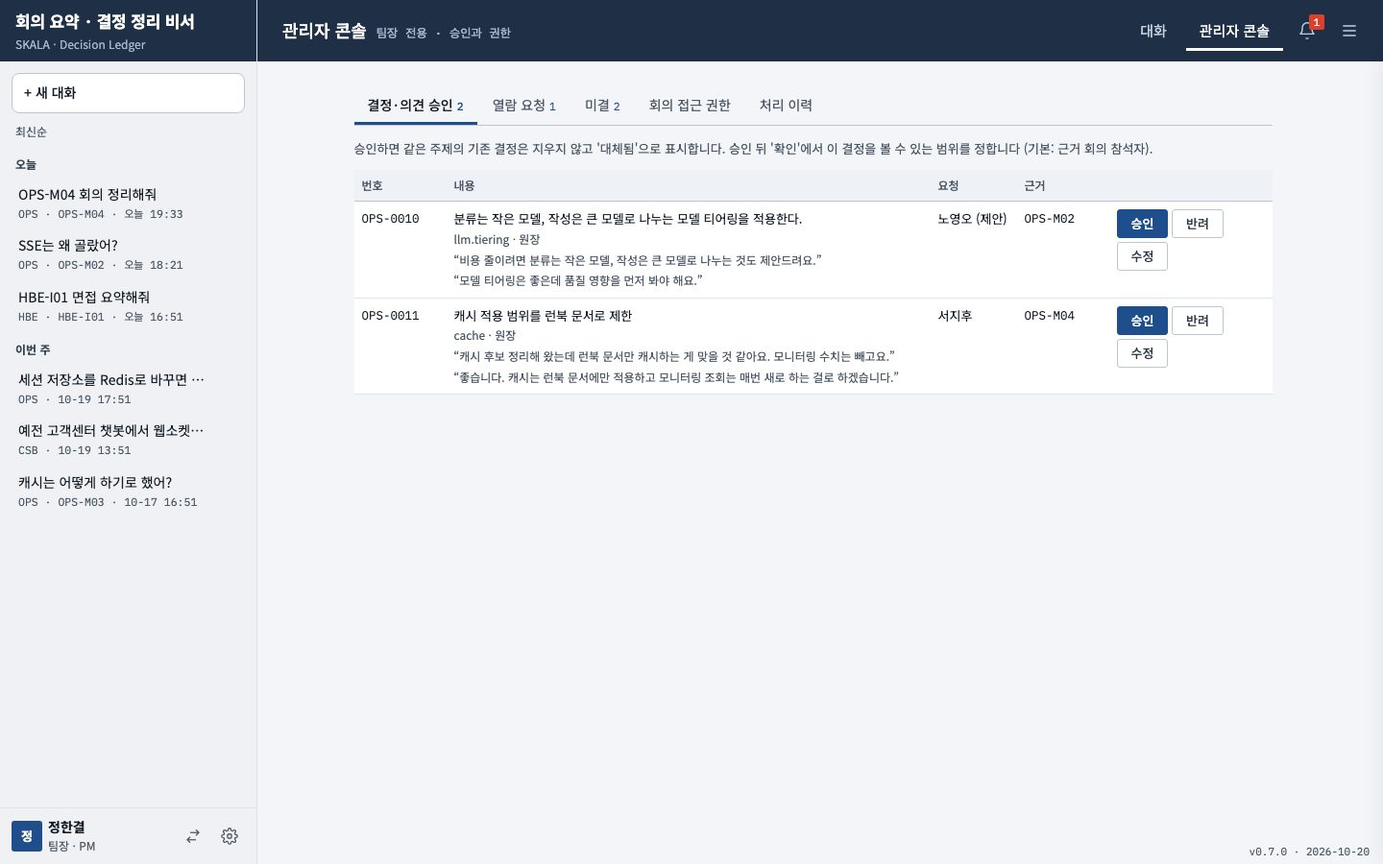
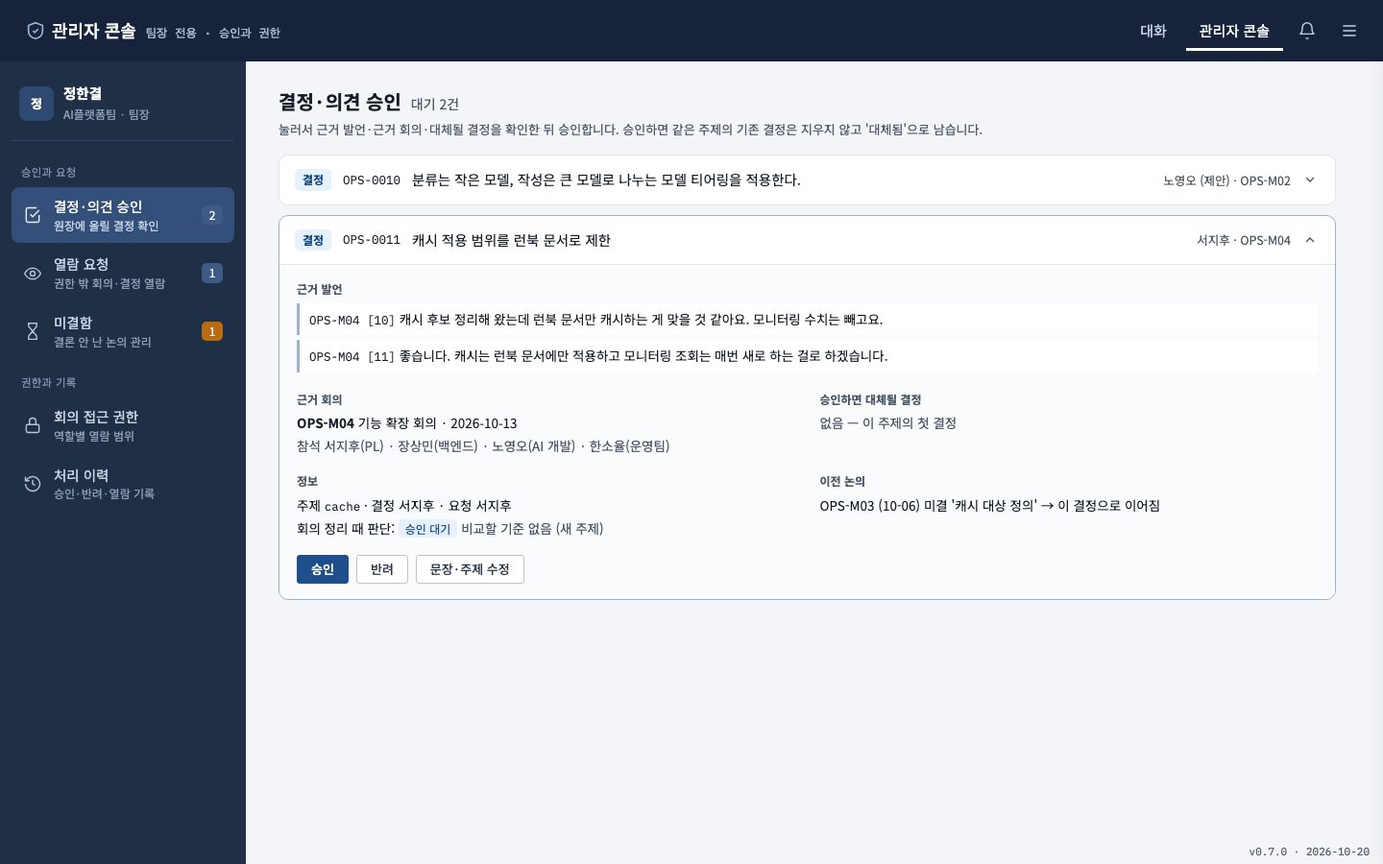
관리자 콘솔 개편: 대화 기록 대신 좌측 관리 메뉴(대기 건수), 대기 건을 누르면 근거 발언·근거 회의·대체될 결정·이전 논의·해결 방향 펼치기

diff --git a/web_chat.html b/web_chat.html
@@ -184,6 +184,46 @@ input.sel { padding-right: 10px; background-image: none; cursor: text; }
 .quote { font-size: 12px; color: var(--muted); margin-top: 3px; }
 .sup-warn { font-size: 12px; color: #a35a00; background: #fff4e5; border-radius: 4px; padding: 3px 6px; margin-top: 4px; }
 tr.stale td { background: #fffaf2; }
+/* 관리자 콘솔: 대화 기록 대신 관리 메뉴 */
+.app.adm { grid-template-columns: minmax(0, 1fr); }
+.top.admtop { background: #16233a; } .top .shield { width: 22px; height: 22px; color: #9fb6d6; flex: none; }
+.adm-page { padding: 0 !important; overflow: hidden; display: flex; }
+.adm { display: grid; grid-template-columns: 256px minmax(0, 1fr); flex: 1; min-height: 0; }
+.adm-nav { background: var(--navy); color: #c9d4e3; padding: 18px 12px; overflow-y: auto; }
+.adm-who { display: flex; gap: 10px; align-items: center; padding: 4px 8px 16px; border-bottom: 1px solid #2f4462; margin-bottom: 10px; }
+.adm-who .av { width: 36px; height: 36px; border-radius: 8px; background: #2f4a72; color: #fff; display: grid; place-items: center; font-weight: 600; }
+.adm-who b { color: #fff; font-size: 14.5px; display: block; } .adm-who small { color: #8fa1ba; font-size: 12px; }
+.adm-sec { font-size: 11.5px; color: #7f92ad; padding: 14px 10px 6px; letter-spacing: .02em; }
+.adm-nav button { display: flex; align-items: center; gap: 12px; width: 100%; padding: 11px 12px; border-radius: 8px; text-align: left; color: #c9d4e3; margin-bottom: 2px; }
+.adm-nav button svg { width: 20px; height: 20px; flex: none; opacity: .9; }
+.adm-nav button span { flex: 1; min-width: 0; font-size: 14.5px; line-height: 1.3; } .adm-nav button small { display: block; font-size: 12px; color: #8fa1ba; margin-top: 2px; }
+.adm-nav button:hover { background: #283c5a; color: #fff; } .adm-nav button.on { background: #34507a; color: #fff; } .adm-nav button.on small { color: #c4d2e6; }
+.adm-nav em { font-style: normal; font-size: 12px; min-width: 22px; text-align: center; padding: 1px 6px; border-radius: 5px; background: #3e5a85; color: #fff; }
+.adm-nav em.warn { background: #b86b10; }
+.adm-main { overflow-y: auto; padding: 26px 34px 90px; min-width: 0; background: var(--bg); }
+.adm-hd { display: flex; align-items: baseline; gap: 10px; margin-bottom: 4px; } .adm-hd h2 { font-size: 20px; font-weight: 600; margin: 0; }
+.adm-main .note { margin: 0 0 16px; }
+.empty-box { padding: 26px; text-align: center; color: var(--muted); background: #fff; border: 1px dashed var(--line2); border-radius: 10px; }
+.arow { background: #fff; border: 1px solid var(--line); border-radius: 10px; margin-bottom: 10px; }
+.arow.open { border-color: #9fb1c8; } .arow.stale { border-left: 4px solid #d08a2c; }
+.ahead { display: grid; grid-template-columns: auto auto minmax(0, 1fr) auto 18px; align-items: center; gap: 12px; width: 100%; padding: 14px 16px; text-align: left; }
+.ahead.static { grid-template-columns: auto auto minmax(0, 1fr) auto auto; cursor: default; }
+.ahead:hover { background: #f8fafc; } .ahead.static:hover { background: none; }
+.atx { min-width: 0; white-space: nowrap; overflow: hidden; text-overflow: ellipsis; font-size: 14.5px; }
+.ameta { font-size: 12.5px; color: var(--muted); white-space: nowrap; } .ameta.hot { color: #a35a00; font-weight: 600; }
+.chev { width: 16px; height: 16px; color: var(--muted); transition: transform .15s; } .arow.open .chev { transform: rotate(180deg); }
+.tb { font-size: 12px; padding: 2px 8px; border-radius: 5px; font-weight: 600; }
+.t-dec { background: #E6F1FB; color: #0C447C; } .t-op { background: #EEEDFE; color: #3C3489; } .t-req { background: #E1F5EE; color: #085041; }
+.t-open { background: #FAEEDA; color: #633806; } .t-ok { background: #EAF3DE; color: #27500A; } .t-bad { background: #FCEBEB; color: #791F1F; }
+.adet { border-top: 1px solid var(--line); padding: 16px 18px; background: #fafbfd; border-radius: 0 0 10px 10px; }
+.dgrid { display: grid; grid-template-columns: repeat(2, minmax(0, 1fr)); gap: 14px 26px; } .dgrid .span2 { grid-column: 1 / -1; }
+.dgrid h5 { font-size: 12px; color: var(--muted); font-weight: 600; margin: 0 0 5px; } .dgrid p { margin: 0 0 3px; font-size: 13.5px; }
+.q2 { background: #fff; border-left: 3px solid #9fb1c8; padding: 6px 10px; margin-bottom: 5px; font-size: 13.5px; }
+.sup2 { color: #8a4b00; } .ai2 { font-size: 11.5px; background: #EEEDFE; color: #3C3489; padding: 1px 6px; border-radius: 4px; margin-right: 6px; }
+.lb2 { font-size: 12px; padding: 1px 7px; border-radius: 4px; } .l-chk { background: #FAEEDA; color: #633806; } .l-pend { background: #E6F1FB; color: #0C447C; }
+.aact { display: flex; gap: 8px; align-items: center; margin-top: 14px; flex-wrap: wrap; }
+.done-hd { font-size: 12.5px; color: var(--muted); margin: 20px 0 8px; } .arow.done { opacity: .9; }
+.atable { width: 100%; background: #fff; border: 1px solid var(--line); border-radius: 10px; border-collapse: separate; overflow: hidden; }
 .ver { position: absolute; right: 14px; bottom: 4px; font-size: 11px; color: var(--muted); font-family: var(--mono); }
 
 /* 공통 버튼·표 */
@@ -337,8 +377,8 @@ tr.lock td { color: var(--muted); }
     </div>
   </div>
 
-  <div class="app" v-if="me">
-    <aside class="side">
+  <div class="app" :class="{ adm: page === 'admin' }" v-if="me">
+    <aside class="side" v-show="page !== 'admin'">
       <button class="brand" title="새 대화 홈으로" @click="goHome"><b>회의 요약 · 결정 정리 비서</b><small>SKALA · Decision Ledger</small></button>
       <button class="newchat" @click="newChat">+ 새 대화</button>
       <div class="sorthint"><span>{{ selPrj ? '관련순' : '최신순' }}</span><b>{{ selPrj }}</b></div>
@@ -373,7 +413,8 @@ tr.lock td { color: var(--muted); }
     </aside>
 
     <main class="main">
-      <div class="top">
+      <div class="top" :class="{ admtop: page === 'admin' }">
+        <svg v-if="page === 'admin'" class="shield" viewBox="0 0 24 24" fill="none" stroke="currentColor" stroke-width="1.8"><path d="M12 3l8 3v6c0 5-3.5 8-8 9-4.5-1-8-4-8-9V6z"/><path d="M9 12l2 2 4-4"/></svg>
         <h1>{{ titleText }}<small>{{ titleSub }}</small></h1>
         <button class="tab" :class="{ on: page === 'chat' }" @click="go('chat')">대화</button>
         <button class="tab" v-if="me.role === '팀장'" :class="{ on: page === 'admin' }" @click="go('admin')">관리자 콘솔</button>
@@ -456,94 +497,128 @@ tr.lock td { color: var(--muted); }
       </div>
 
       <!-- 관리자 콘솔 -->
-      <div class="page" v-show="page === 'admin'">
-        <div class="col wide">
-          <div class="ptabs">
-            <button :class="{ on: atab === 'dec' }" @click="atab = 'dec'">결정·의견 승인<span class="cnt">{{ admin.decisions.length }}</span></button>
-            <button :class="{ on: atab === 'req' }" @click="atab = 'req'">열람 요청<span class="cnt">{{ admin.requests.length }}</span></button>
-            <button :class="{ on: atab === 'open' }" @click="atab = 'open'; loadOpen()">미결<span class="cnt">{{ openItems.length }}</span></button>
-            <button :class="{ on: atab === 'acl' }" @click="atab = 'acl'; loadAcl()">회의 접근 권한</button>
-            <button :class="{ on: atab === 'his' }" @click="atab = 'his'">처리 이력</button>
-          </div>
-          <div v-if="atab === 'dec'">
-            <p class="note">승인하면 같은 주제의 기존 결정은 지우지 않고 '대체됨'으로 표시합니다. 승인 뒤 '확인'에서 이 결정을 볼 수 있는 범위를 정합니다 (기본: 근거 회의 참석자).</p>
-            <table>
-              <tr><th style="width:96px">번호</th><th>내용</th><th style="width:90px">요청</th><th style="width:96px">근거</th><th style="width:170px"></th></tr>
-              <tr v-if="!admin.decisions.length && !doneDec.length"><td colspan="5" class="muted">승인 대기 없음</td></tr>
-              <tr v-for="d in admin.decisions" :key="d.decision_id">
-                <td class="mono">{{ d.decision_id }}</td>
-                <td>{{ d.statement }}<br><span class="muted" style="font-size:12px">{{ d.topic }} · {{ d.source }}</span>
-                  <div class="quote" v-for="(q, i) in d.quotes || []" :key="i">“{{ q }}”</div>
-                  <div class="sup-warn" v-if="d.will_supersede && d.will_supersede.length">승인하면 대체: <span v-for="x in d.will_supersede" :key="x.decision_id"><b class="mono">{{ x.decision_id }}</b> {{ x.statement }} </span></div></td>
-                <td>{{ d.requested_by }}</td><td class="mono">{{ d.meetings.join(', ') || '의견' }}</td>
-                <td><button class="btn pri" @click="decide(d, true)">승인</button> <button class="btn dng" @click="decide(d, false)">반려</button>
-                  <button class="btn" style="margin-top:4px" @click="editDec(d)">수정</button></td>
-              </tr>
-              <tr v-for="d in doneDec" :key="'x' + d.decision_id">
-                <td class="mono">{{ d.decision_id }}</td><td>{{ d.statement }}
-                  <div class="perm" v-if="d.open && d.ok">
-                    <span class="muted">열람 범위 ({{ d.meetings.join(', ') || '의견' }}):</span>
-                    <label v-for="r in ['인턴', '팀원', '담당자']" :key="r"><input type="checkbox" :checked="d.roles.includes(r)" @change="toggleDecRole(d, r, $event.target.checked)">{{ r }}</label>
-                    <span class="muted">참석자·팀장은 항상</span>
-                  </div></td>
-                <td>{{ d.requested_by }}</td><td class="mono">{{ d.meetings.join(', ') }}</td>
-                <td><span :class="d.ok ? 'done' : 'st-bad'">{{ d.ok ? '승인됨' : '반려됨' }}</span><span class="muted" v-if="d.sup" style="font-size:12px"> · 대체 {{ d.sup }}</span>
-                  <button class="btn" v-if="d.ok" style="margin-left:6px" @click="d.open = !d.open">확인</button></td>
-              </tr>
-            </table>
-          </div>
-          <div v-if="atab === 'req'">
-            <p class="note">회의 권한 밖의 사람이 승인된 결정·회의 원문을 보려면 여기서 승인합니다.</p>
-            <table>
-              <tr><th>요청자</th><th>대상</th><th>사유</th><th style="width:430px">범위 · 기간</th></tr>
-              <tr v-if="!admin.requests.length"><td colspan="4" class="muted">열람 요청 없음</td></tr>
-              <tr v-for="r in admin.requests" :key="r.id">
-                <td>{{ r.requester_name }} <span class="muted">({{ r.requester_role }})</span></td><td class="mono">{{ r.target }}</td><td>{{ r.reason || '—' }}</td>
-                <td>
-                  <template v-if="!r.done">
+      <div class="page adm-page" v-show="page === 'admin'">
+        <div class="adm">
+          <nav class="adm-nav">
+            <div class="adm-who"><span class="av">{{ me.name[0] }}</span><div><b>{{ me.name }}</b><small>{{ me.team }} · {{ me.role }}</small></div></div>
+            <div class="adm-sec">승인과 요청</div>
+            <button :class="{ on: atab === 'dec' }" @click="atab = 'dec'; sel = '';"><svg viewBox="0 0 24 24" fill="none" stroke="currentColor" stroke-width="1.7"><path d="M9 11l3 3 8-8"/><path d="M20 12v7a2 2 0 0 1-2 2H6a2 2 0 0 1-2-2V5a2 2 0 0 1 2-2h11"/></svg><span>결정·의견 승인<small>원장에 올릴 결정 확인</small></span><em v-if="admin.decisions.length">{{ admin.decisions.length }}</em></button>
+            <button :class="{ on: atab === 'req' }" @click="atab = 'req'; sel = '';"><svg viewBox="0 0 24 24" fill="none" stroke="currentColor" stroke-width="1.7"><path d="M2 12s3.5-7 10-7 10 7 10 7-3.5 7-10 7S2 12 2 12z"/><circle cx="12" cy="12" r="3"/></svg><span>열람 요청<small>권한 밖 회의·결정 열람</small></span><em v-if="admin.requests.length">{{ admin.requests.length }}</em></button>
+            <button :class="{ on: atab === 'open' }" @click="atab = 'open'; sel = ''; loadOpen()"><svg viewBox="0 0 24 24" fill="none" stroke="currentColor" stroke-width="1.7"><path d="M6 2h12M6 22h12M7 2v4l5 6-5 6v4M17 2v4l-5 6 5 6v4"/></svg><span>미결함<small>결론 안 난 논의 관리</small></span><em v-if="openItems.length" :class="{ warn: openItems.some(o => o.stale) }">{{ openItems.length }}</em></button>
+            <div class="adm-sec">권한과 기록</div>
+            <button :class="{ on: atab === 'acl' }" @click="atab = 'acl'; sel = ''; loadAcl()"><svg viewBox="0 0 24 24" fill="none" stroke="currentColor" stroke-width="1.7"><rect x="4" y="11" width="16" height="10" rx="2"/><path d="M8 11V7a4 4 0 0 1 8 0v4"/></svg><span>회의 접근 권한<small>역할별 열람 범위</small></span></button>
+            <button :class="{ on: atab === 'his' }" @click="atab = 'his'; sel = '';"><svg viewBox="0 0 24 24" fill="none" stroke="currentColor" stroke-width="1.7"><path d="M3 12a9 9 0 1 0 3-6.7L3 8"/><path d="M3 3v5h5M12 7v5l3 2"/></svg><span>처리 이력<small>승인·반려·열람 기록</small></span></button>
+          </nav>
+          <section class="adm-main">
+            <div v-if="atab === 'dec'">
+              <div class="adm-hd"><h2>결정·의견 승인</h2><span class="muted">대기 {{ admin.decisions.length }}건</span></div>
+              <p class="note">눌러서 근거 발언·근거 회의·대체될 결정을 확인한 뒤 승인합니다. 승인하면 같은 주제의 기존 결정은 지우지 않고 '대체됨'으로 남습니다.</p>
+              <div class="empty-box" v-if="!admin.decisions.length && !doneDec.length">승인 대기 없음</div>
+              <div class="arow" v-for="d in admin.decisions" :key="d.decision_id" :class="{ open: sel === d.decision_id }">
+                <button class="ahead" @click="sel = sel === d.decision_id ? '' : d.decision_id">
+                  <span class="tb" :class="d.meetings.length ? 't-dec' : 't-op'">{{ d.meetings.length ? '결정' : '의견' }}</span>
+                  <span class="mono">{{ d.decision_id }}</span><span class="atx">{{ d.statement }}</span>
+                  <span class="ameta">{{ d.requested_by }} · {{ d.meetings.join(', ') || '의견 검토' }}</span><svg class="chev" viewBox="0 0 24 24" fill="none" stroke="currentColor" stroke-width="2"><path d="M6 9l6 6 6-6"/></svg>
+                </button>
+                <div class="adet" v-if="sel === d.decision_id">
+                  <div class="dgrid">
+                    <div class="span2"><h5>근거 발언</h5>
+                      <div class="q2" v-for="(e, i) in d.evidence" :key="i"><span class="mono">{{ e.meeting_id }} [{{ e.seq ?? '—' }}]</span> {{ e.quote }}</div>
+                      <div class="muted" v-if="!d.evidence.length">근거 발언 없음 (의견에서 올린 결정)</div></div>
+                    <div><h5>근거 회의</h5>
+                      <template v-if="d.meeting && d.meeting.meeting_id"><p><b>{{ d.meeting.meeting_id }}</b> {{ d.meeting.title }} · {{ d.meeting.date }}</p><p class="muted">참석 {{ d.meeting.attendees.join(' · ') }}</p></template>
+                      <p class="muted" v-else>—</p></div>
+                    <div><h5>승인하면 대체될 결정</h5>
+                      <p v-for="x in d.will_supersede" :key="x.decision_id" class="sup2"><b class="mono">{{ x.decision_id }}</b> {{ x.statement }}</p>
+                      <p class="muted" v-if="!d.will_supersede.length">없음 — 이 주제의 첫 결정</p></div>
+                    <div><h5>정보</h5><p>주제 <span class="mono">{{ d.topic }}</span> · 결정 {{ d.decided_by || '—' }} · 요청 {{ d.requested_by }}</p>
+                      <p v-if="d.label">회의 정리 때 판단: <span class="lb2" :class="d.label === '확인 필요' ? 'l-chk' : 'l-pend'">{{ d.label }}</span> <span class="muted">{{ d.label_reason }}</span></p></div>
+                    <div v-if="d.prior.length"><h5>이전 논의</h5><p v-for="x in d.prior" :key="x.meeting_id + x.statement">{{ x.meeting_id }} ({{ (x.date || '').slice(5) }}) 미결 '{{ x.statement }}' → 이 결정으로 이어짐</p></div>
+                    <div class="span2" v-if="d.suggestions.length"><h5>해결 방향</h5><p v-for="(s, i) in d.suggestions" :key="i">· <span v-if="s.ai" class="ai2">AI 제안</span>{{ s.text }}</p></div>
+                  </div>
+                  <div class="aact"><button class="btn pri" @click="decide(d, true)">승인</button><button class="btn dng" @click="decide(d, false)">반려</button><button class="btn" @click="editDec(d)">문장·주제 수정</button></div>
+                </div>
+              </div>
+              <div class="done-hd" v-if="doneDec.length">방금 처리</div>
+              <div class="arow done" v-for="d in doneDec" :key="'x' + d.decision_id">
+                <div class="ahead static"><span class="tb" :class="d.ok ? 't-ok' : 't-bad'">{{ d.ok ? '승인됨' : '반려됨' }}</span><span class="mono">{{ d.decision_id }}</span><span class="atx">{{ d.statement }}</span>
+                  <span class="ameta">{{ d.sup ? '대체 ' + d.sup : '' }}</span><button class="btn" v-if="d.ok" @click="d.open = !d.open">열람 범위</button></div>
+                <div class="adet" v-if="d.open && d.ok"><div class="perm"><span class="muted">열람 범위 ({{ d.meetings.join(', ') || '의견' }}):</span>
+                  <label v-for="r in ['인턴', '팀원', '담당자']" :key="r"><input type="checkbox" :checked="d.roles.includes(r)" @change="toggleDecRole(d, r, $event.target.checked)">{{ r }}</label>
+                  <span class="muted">참석자·팀장은 항상</span></div></div>
+              </div>
+            </div>
+
+            <div v-if="atab === 'req'">
+              <div class="adm-hd"><h2>열람 요청</h2><span class="muted">대기 {{ admin.requests.length }}건</span></div>
+              <p class="note">회의 권한 밖의 사람이 결정·회의 원문을 보려는 요청입니다. 눌러서 대상 회의와 사유를 보고 범위·기간을 정합니다.</p>
+              <div class="empty-box" v-if="!admin.requests.length">열람 요청 없음</div>
+              <div class="arow" v-for="r in admin.requests" :key="r.id" :class="{ open: sel === 'r' + r.id }">
+                <button class="ahead" @click="sel = sel === 'r' + r.id ? '' : 'r' + r.id">
+                  <span class="tb t-req">열람</span><span class="mono">{{ r.target }}</span>
+                  <span class="atx">{{ r.requester_name }} <span class="muted">({{ r.requester_role }})</span> · {{ r.reason || '사유 없음' }}</span>
+                  <span class="ameta">{{ when(r.created) }}</span><svg class="chev" viewBox="0 0 24 24" fill="none" stroke="currentColor" stroke-width="2"><path d="M6 9l6 6 6-6"/></svg>
+                </button>
+                <div class="adet" v-if="sel === 'r' + r.id">
+                  <div class="dgrid">
+                    <div><h5>요청자</h5><p>{{ r.requester_name }} · {{ r.requester_role }}</p><p class="muted">사유: {{ r.reason || '—' }}</p></div>
+                    <div><h5>대상</h5>
+                      <template v-if="r.meeting && r.meeting.meeting_id"><p><b>{{ r.meeting.meeting_id }}</b> {{ r.meeting.title }} · {{ r.meeting.date }}</p><p class="muted">참석 {{ r.meeting.attendees.join(' · ') }} — 요청자는 참석자가 아니라 기본 열람 불가</p></template>
+                      <p v-else class="mono">{{ r.target }}</p></div>
+                  </div>
+                  <div class="aact" v-if="!r.done">
                     <select v-model="r.scope" class="sel" title="범위"><option value="user">이 사람만</option><option value="role">같은 역할 전체</option><option value="all">전체 (권장하지 않음)</option></select>
                     <select v-model="r.duration" class="sel" title="기간"><option value="once">1회</option><option value="project">프로젝트 기간 동안</option><option value="forever">무기한 (권장하지 않음)</option><option value="until">직접 입력</option></select>
                     <input v-if="r.duration === 'until'" type="date" v-model="r.until" class="sel" :min="todayIso" title="열람 기한">
-                    <button class="btn pri" @click="decideReq(r, true)">승인</button> <button class="btn dng" @click="decideReq(r, false)">반려</button>
-                  </template>
-                  <span v-else :class="r.done === 'approved' ? 'done' : 'st-bad'">{{ r.done === 'approved' ? '승인됨 · ' + scopeKo(r.scope) + ' · ' + durKo(r.duration, r.until) : '반려됨' }}</span>
-                </td>
-              </tr>
-            </table>
-          </div>
-          <div v-if="atab === 'acl'">
-            <p class="note">기본값은 그 회의 참석자만 열람. 체크한 역할은 참석하지 않았어도 원문과 결정을 볼 수 있습니다. 팀장은 항상 열람.</p>
-            <table>
-              <tr><th>회의</th><th>제목</th><th>참석자</th><th>인턴</th><th>팀원</th><th>담당자</th></tr>
-              <tr v-for="m in acl" :key="m.meeting_id">
-                <td class="mono">{{ m.meeting_id }}</td><td>{{ m.title }}</td><td class="muted" style="font-size:12px">{{ m.attendees.join(', ') }}</td>
-                <td v-for="r in ['인턴', '팀원', '담당자']" :key="r"><input type="checkbox" :checked="m.roles.includes(r)" @change="setAcl(m, r, $event.target.checked)"></td>
-              </tr>
-            </table>
-          </div>
-          <div v-if="atab === 'open'">
-            <p class="note">회의에서 결론을 내지 않은 논의입니다. 말이 없다고 결정된 것으로 보지 않습니다. 후속 할 일 기한이 지났거나 2주 넘게 열려 있으면 '확인 필요'로 표시합니다. 회의 밖에서 정해졌거나 하지 않기로 했으면 여기서 닫습니다.</p>
-            <table>
-              <tr><th style="width:140px">회의</th><th style="width:120px">주제</th><th>미결 내용</th><th style="width:200px">후속 할 일</th><th style="width:80px">경과</th><th style="width:90px"></th></tr>
-              <tr v-if="!openItems.length"><td colspan="6" class="muted">열린 미결 없음</td></tr>
-              <tr v-for="o in openItems" :key="o.item_id" :class="{ stale: o.stale }">
-                <td class="mono">{{ o.meeting_id }}<br><span class="muted">{{ o.date }}</span></td>
-                <td class="mono">{{ o.topic || '—' }}</td>
-                <td>{{ o.statement }}<div class="quote" v-for="e in (o.evidence || []).slice(0, 1)" :key="e.seq">[{{ e.seq }}] {{ e.speaker }} “{{ e.quote }}”</div></td>
-                <td><div v-for="a in o.follow_up" :key="a.statement">{{ a.statement }} <span class="muted">{{ a.owner || '?' }} · {{ a.due || '기한 없음' }}</span></div><span v-if="!o.follow_up.length" class="muted">없음</span></td>
-                <td><span :class="o.stale ? 'st-wait' : ''">{{ o.age_days }}일{{ o.stale ? ' · 확인 필요' : '' }}</span></td>
-                <td><button class="btn" @click="closeOpen(o)">닫기</button></td>
-              </tr>
-            </table>
-          </div>
-          <div v-if="atab === 'his'">
-            <table>
-              <tr><th>요청자</th><th>대상</th><th>결과</th><th>처리</th><th>시각</th></tr>
-              <tr v-for="r in admin.history" :key="r.id"><td>{{ r.requester_name }}</td><td class="mono">{{ r.target }}</td>
-                <td :class="r.status === 'approved' ? 'st-ok' : r.status === 'rejected' ? 'st-bad' : 'st-wait'">{{ { approved: '승인', rejected: '반려', pending: '대기' }[r.status] }}{{ r.scope ? ' · ' + scopeKo(r.scope) + (r.duration ? ' · ' + durKo(r.duration, r.expires) : '') : '' }}</td>
-                <td>{{ r.decided_by ? userName(r.decided_by) : '—' }}</td><td class="mono">{{ when(r.decided || r.created) }}</td></tr>
-            </table>
-          </div>
+                    <button class="btn pri" @click="decideReq(r, true)">승인</button><button class="btn dng" @click="decideReq(r, false)">반려</button>
+                  </div>
+                  <div class="aact" v-else><span :class="r.done === 'approved' ? 'done' : 'st-bad'">{{ r.done === 'approved' ? '승인됨 · ' + scopeKo(r.scope) + ' · ' + durKo(r.duration, r.until) : '반려됨' }}</span></div>
+                </div>
+              </div>
+            </div>
+
+            <div v-if="atab === 'open'">
+              <div class="adm-hd"><h2>미결함</h2><span class="muted">열린 미결 {{ openItems.length }}건</span></div>
+              <p class="note">회의에서 결론을 내지 않은 논의입니다. 말이 없다고 결정된 것으로 보지 않습니다. 후속 할 일 기한이 지났거나 2주 넘게 열려 있으면 확인 필요로 표시합니다. 회의 밖에서 정해졌거나 하지 않기로 했으면 닫습니다.</p>
+              <div class="empty-box" v-if="!openItems.length">열린 미결 없음</div>
+              <div class="arow" v-for="o in openItems" :key="o.item_id" :class="{ open: sel === o.item_id, stale: o.stale }">
+                <button class="ahead" @click="sel = sel === o.item_id ? '' : o.item_id">
+                  <span class="tb t-open">미결</span><span class="mono">{{ o.meeting_id }}</span><span class="atx">{{ o.statement }}</span>
+                  <span class="ameta" :class="{ hot: o.stale }">{{ o.age_days }}일째{{ o.stale ? ' · 확인 필요' : '' }}</span><svg class="chev" viewBox="0 0 24 24" fill="none" stroke="currentColor" stroke-width="2"><path d="M6 9l6 6 6-6"/></svg>
+                </button>
+                <div class="adet" v-if="sel === o.item_id">
+                  <div class="dgrid">
+                    <div class="span2"><h5>근거 발언</h5><div class="q2" v-for="e in o.evidence || []" :key="e.seq"><span class="mono">[{{ e.seq }}]</span> {{ e.speaker }} “{{ e.quote }}”</div></div>
+                    <div><h5>회의·주제</h5><p>{{ o.meeting_id }} · {{ o.date }}</p><p class="muted">주제 <span class="mono">{{ o.topic || '—' }}</span></p></div>
+                    <div><h5>후속 할 일</h5><p v-for="a in o.follow_up" :key="a.statement">{{ a.statement }} <span class="muted">{{ a.owner || '?' }} · {{ a.due || '기한 없음' }}</span></p><p class="muted" v-if="!o.follow_up.length">없음</p></div>
+                  </div>
+                  <div class="aact"><button class="btn" @click="closeOpen(o)">결정 없이 닫기</button></div>
+                </div>
+              </div>
+            </div>
+
+            <div v-if="atab === 'acl'">
+              <div class="adm-hd"><h2>회의 접근 권한</h2></div>
+              <p class="note">기본값은 그 회의 참석자만 열람. 체크한 역할은 참석하지 않았어도 원문과 결정을 볼 수 있습니다. 팀장은 항상 열람.</p>
+              <table class="atable">
+                <tr><th>회의</th><th>제목</th><th>참석자</th><th>인턴</th><th>팀원</th><th>담당자</th></tr>
+                <tr v-for="m in acl" :key="m.meeting_id">
+                  <td class="mono">{{ m.meeting_id }}</td><td>{{ m.title }}</td><td class="muted" style="font-size:12px">{{ m.attendees.join(', ') }}</td>
+                  <td v-for="r in ['인턴', '팀원', '담당자']" :key="r"><input type="checkbox" :checked="m.roles.includes(r)" @change="setAcl(m, r, $event.target.checked)"></td>
+                </tr>
+              </table>
+            </div>
+
+            <div v-if="atab === 'his'">
+              <div class="adm-hd"><h2>처리 이력</h2></div>
+              <table class="atable">
+                <tr><th>요청자</th><th>대상</th><th>결과</th><th>처리</th><th>시각</th></tr>
+                <tr v-for="r in admin.history" :key="r.id"><td>{{ r.requester_name }}</td><td class="mono">{{ r.target }}</td>
+                  <td :class="r.status === 'approved' ? 'st-ok' : r.status === 'rejected' ? 'st-bad' : 'st-wait'">{{ { approved: '승인', rejected: '반려', pending: '대기' }[r.status] }}{{ r.scope ? ' · ' + scopeKo(r.scope) + (r.duration ? ' · ' + durKo(r.duration, r.expires) : '') : '' }}</td>
+                  <td>{{ r.decided_by ? userName(r.decided_by) : '—' }}</td><td class="mono">{{ when(r.decided || r.created) }}</td></tr>
+              </table>
+            </div>
+          </section>
         </div>
       </div>
 
@@ -802,7 +877,7 @@ createApp({
     const drawer = ref(false), selPrj = ref(null), projects = ref([]), meetings = ref([]), ledger = ref([]), reqSent = reactive({});
     const events = ref([]), selEvent = ref(null);     // 채팅에서 확인 후 추가한 일정 (GET /events)
     const calY = ref(2026), calM = ref(10);
-    const admin = reactive({ decisions: [], requests: [], history: [] }), doneDec = ref([]), atab = ref('dec'), acl = ref([]);
+    const admin = reactive({ decisions: [], requests: [], history: [] }), doneDec = ref([]), atab = ref('dec'), acl = ref([]), sel = ref('');
     const dlg = reactive({ open: false, title: '', message: '', input: null, placeholder: '', ok: '확인', cancel: '취소', danger: false });
     const dlgInput = ref(null);
     let dlgResolve = null;
@@ -1162,6 +1237,7 @@ createApp({
       if (me.value && qs.get('thread')) { const t = threads.value.find(x => x.thread_id === qs.get('thread')); if (t) await openThread(t); }
       if (me.value && qs.get('page')) go(qs.get('page'));
       if (me.value && qs.get('tab')) { atab.value = qs.get('tab'); if (qs.get('tab') === 'acl') loadAcl(); }
+      if (me.value && qs.get('sel')) sel.value = qs.get('sel');   // 캡처용: 관리자 콘솔에서 펼칠 대기 건
       if (me.value && qs.get('prj')) { drawer.value = true; await loadMeetings(); await loadProjects(); await pickPrj(qs.get('prj')); }
       if (me.value && qs.get('mtg')) { drawer.value = true; await loadMeetings(); await loadProjects(); const m = meetings.value.find(x => x.meeting_id === qs.get('mtg')); if (m) await pickMeeting(m); }
       if (me.value && qs.get('mini')) openMini();
@@ -1171,7 +1247,7 @@ createApp({
       setInterval(loadNotes, 8000);
     })();
 
-    return { openItems, loadOpen, closeOpen, editDec, prjOpts, mtgOpts, modelOpts, miniPos, miniEl, inputEl, autoGrow, miniOpen, miniY, miniM, miniCells, openMini, miniMove, pickMiniDate, presets, modelKey, scopePrj, scopeMtg, scopeDate, scopeMeetings, meetingDates, onScopeMtg, onScopePrj, onScopeDate, dlg, dlgInput, dlgClose, switchOpen, users, me, version, build, threads, threadId, threadBox, chatBox, threadRows, log, input, sending, page, notes, unread, popOpen,
+    return { sel, openItems, loadOpen, closeOpen, editDec, prjOpts, mtgOpts, modelOpts, miniPos, miniEl, inputEl, autoGrow, miniOpen, miniY, miniM, miniCells, openMini, miniMove, pickMiniDate, presets, modelKey, scopePrj, scopeMtg, scopeDate, scopeMeetings, meetingDates, onScopeMtg, onScopePrj, onScopeDate, dlg, dlgInput, dlgClose, switchOpen, users, me, version, build, threads, threadId, threadBox, chatBox, threadRows, log, input, sending, page, notes, unread, popOpen,
       drawer, selPrj, projects, meetings, ledger, reqSent, calY, calM, calCells, admin, doneDec, atab, acl, stab, ragCounts, ragQ, ragCol,
       ragFiltered, ragRows, samples, titleText, titleSub, md, when, userName, prjKey, prjColor, prjBg, scopeKo, durKo, todayIso, ragState,
       login, newChat, goHome, removeThread, openThread, send, onChatScroll, requestAccess, quickRequest, proposeOpinion, decide, toggleDecRole, decideReq, setAcl,

diff --git a/server.py b/server.py
@@ -737,8 +737,47 @@ async def admin_pending(user: str):
             "meetings": sorted({e["meeting_id"] for e in r.get("evidence", [])}),
             # 승인하면 대체될 결정 미리보기 — 주제가 틀리면 무관한 결정이 무효가 되므로 누르기 전에 보여 준다
             "will_supersede": await app.state.deps.mcp.call("will_supersede", decision_id=did),
-            "quotes": [e.get("quote") for e in r.get("evidence", [])][:2]})
-    return {"decisions": pending, "requests": acc.requests("pending"), "history": acc.requests(None)[:20]}
+            "quotes": [e.get("quote") for e in r.get("evidence", [])][:2]} | await _decision_detail(r))
+    requests = acc.requests("pending")
+    for q in requests:                        # 열람 대상 회의 정보 — 펼쳤을 때 왜 못 보는지(참석자 아님) 바로 보이게
+        q["meeting"] = await _meeting_brief(q["target"] if "-M" in q["target"] or "-I" in q["target"] else "")
+    return {"decisions": pending, "requests": requests, "history": acc.requests(None)[:20]}
+
+
+async def _meeting_brief(meeting_id: str) -> dict:
+    """
+    회의 요약 정보 (관리자 콘솔 세부사항용)
+    Args:
+        meeting_id: 회의 ID (비우면 빈 dict)
+    Returns:
+        {meeting_id, title, date, attendees:[이름(역할)]} 또는 빈 dict
+    """
+    if not meeting_id:
+        return {}
+    m = await app.state.deps.mcp.call("meeting_info", meeting_id=meeting_id)
+    return {"meeting_id": meeting_id, "title": m.get("title", ""), "date": m.get("date", ""),
+            "attendees": [f"{a['name']}({a['role']})" if a.get("role") else a["name"] for a in m.get("attendees", [])]} if m else {}
+
+
+async def _decision_detail(d: dict) -> dict:
+    """
+    승인 대기 결정의 세부사항 — 근거 발언 전체, 근거 회의, 회의 정리 때의 라벨·해결 방향, 이 결정으로 이어진 이전 미결
+    Args:
+        d: 원장 결정 (evidence 포함)
+    Returns:
+        {evidence, meeting, label, label_reason, suggestions, prior}
+    """
+    h = await app.state.deps.mcp.call("decision_history", decision_id=d["decision_id"])
+    items = h.get("items", [])
+    cand = next((i for i in items if i["kind"] == "decision"), {})
+    review = cand.get("review") or {}
+    ev = d.get("evidence", [])
+    return {"evidence": [{"meeting_id": e.get("meeting_id"), "seq": e.get("seq"), "quote": e.get("quote")} for e in ev],
+            "meeting": await _meeting_brief(ev[0]["meeting_id"] if ev else ""),
+            "label": cand.get("label"), "label_reason": review.get("label_reason"),
+            "suggestions": review.get("suggestions", []),
+            "prior": [{"meeting_id": i["meeting_id"], "date": i.get("date"), "statement": i["statement"]}
+                      for i in items if i["kind"] == "open"]}
 
 
 @app.post("/decisions/{decision_id}/edit")

diff --git a/README.md b/README.md
@@ -282,7 +282,7 @@ Ollama가 느린 맥북은 `.env`에 `LLM_BACKEND=openai`와 본인 `OPENAI_API_
 |---|---|
 | ![](docs/images/sse_flow.jpg) | ![](docs/images/opinion_question.jpg) |
 
-| 승인함 — 원문 인용·승인 전 수정·대체될 결정 미리보기 | 미결함 — 경과일·후속 할 일·닫기 |
+| 관리자 콘솔 승인함 — 누르면 근거 발언·근거 회의·대체될 결정·이전 논의 | 미결함 — 경과일·후속 할 일·결정 없이 닫기 |
 |---|---|
 | ![](docs/images/admin_approve.jpg) | ![](docs/images/open_items.jpg) |
 
